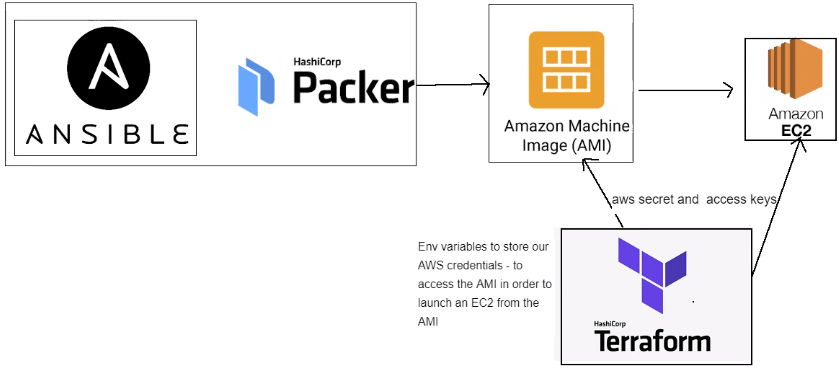
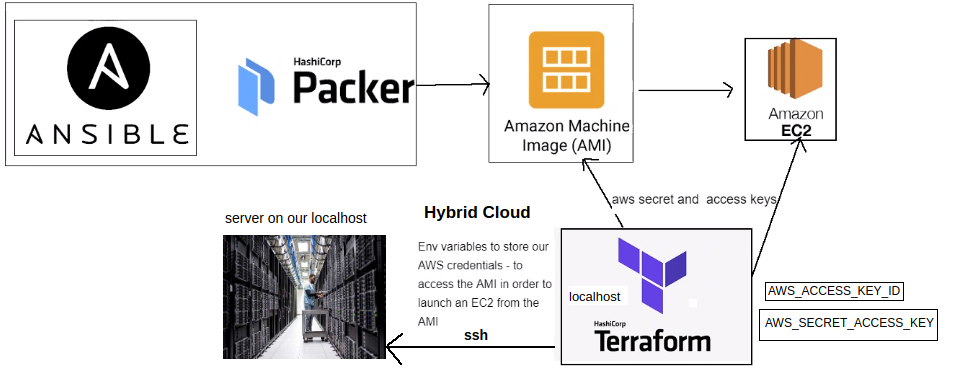
public, private and hybrid cloud.

diff --git a/README.md b/README.md
@@ -1,6 +1,6 @@
 # TERRAFORM
 
-![ANSIBLE_1](./terraform_scheme.png)
+![SCHEME](./terraform_scheme.png)
 
 Imagines that we are going to use to create our instances with terraform:
 
@@ -9,7 +9,7 @@ Imagines that we are going to use to create our instances with terraform:
 
 ## Terraform and benefits
 
-Is a __orhcestration__ tool. Is part of IAC, specifically dealing with orchestration of infrastructure in the cloud. We need orchestration tools and scripts that talk to the cloud to pull them together into the architecture, so Terraform will do this work for us.
+Is a __orchestration__ tool. Is part of IAC, specifically dealing with orchestration of infrastructure in the cloud. We need orchestration tools and scripts that talk to the cloud to pull them together into the architecture, so Terraform will do this work for us.
 
 Terraform is an open-source infrastructure as code software tool that enables you to safely and predictably create, change, and improve infrastructure. Terraform codifies cloud APIs into declarative configuration files.
 
@@ -29,6 +29,10 @@ Because Terraform uses a simple syntax, can provision infrastructure across mult
 
 5. Ease of use.
 
+6. Simplicity, it makes my life easier. It does a lot of work for us behind, in the background.
+
+7. Independent, so you can use it in any provider.
+
 __So can we do with it?__
 
 Terraform is a tool for building, changing, and versioning infrastructure safely and efficiently. Terraform can manage existing and popular service providers as well as custom in-house solutions. Configuration files describe to Terraform the components needed to run a single application or your entire datacenter.
@@ -37,11 +41,88 @@ Terraform applies to multi-cloud scenarios, where similar infrastructure is depl
 
 Automated infrastructure management, so terraform can create configuration file templates to define, provision, and configure ECS resources in a repeatable and predictable manner, reducing deployment and management errors resulting from human intervention.
 
+We can use terraform for private cloud, like vagrant, or for public cloud, like AWS, or make the combination of both of them and create a Hybrid Cloud.
+
 Basically, infrastrucute as code, you can use code to manage and maintain resources. It allows you to store the infrastructure status, so that you can track the changes in different components of the system (infrastructure as code) and share these configurations with others.
 
 __Difference between ansible and terraform__
 
 Although ansible can be used both, for configuration management and for orchestration, with terraform we can see the ease of use with a simple language to interpret, that in so few lines of code and with the image of the machine, we can create a new instance in AWS without having to specify many configurations.
+
+![DIFFERENCE](./terraform.png)
+
+__Safety__
+
+Terraform enables you to embed cloud security earlier and leverage automation and code to secure it. By scanning your Terraform modules earlier in the development lifecycle you can actually prevent misconfigurations from being deployed.
+
+All the methods of trying to connect in AWS, terraform check that (in your localhost, check that you have your variables prepared with their values), but AWS needs to verify also, every single request needs to be verified before deploying anything. It check that the key access matches with your account using the `.tf` file. So that's why it is security. Con lo cual podemos ver el gran beneficio de usar distinto provedores y con cada uno de ellos comprueba el accesso con la key. Nos ayuda hacer nuestra vida mas facil, al igual que al cliente, ahorramos tiempo y dinero.
+
+It does the same for any provider, only we have to change the configuration, the value of the tags.
+
+__AWS GovCloud (US) Regions__
+
+AWS GovCloud (US) gives government customers and their partners the flexibility to architect secure cloud solutions.
+
+AWS GovCloud (US-East) and (US-West) Regions are operated by employees who are U.S. citizens on U.S. soil. AWS GovCloud (US) is only accessible to U.S. entities and root account holders who pass a screening process. Customers must confirm that they will only use a U.S. person (green card holder or citizen as defined by the U.S. Department of State) to manage and access root account keys to these regions.
+
+Protect sensitive unclassified data files with server-side encryption in Amazon S3.
+
+Limit access to sensitive data by individual, time, and location and restrict which API calls users are able to make with identity federation, easy key rotation, and other powerful access control testing tools that are available.
+
+In AWS US, they have data centres we can't buy.
+Renting the services - pay as you go
+Created gov cloud - for government sector only.
+
+Five years ago, companies wanted to migrate to the cloud.
+Secret services were not willing to integrate due to security.
+
+Issues:
+- Premises goes on fire
+- Stealing data (hard drives)
+- Physical security only
+
+AWS created Gov cloud to solve these issues.
+
+### Private Cloud, Public Cloud and Hybrid Cloud
+
+It allows us to use terraform at any cloud level:
+
+![DIFFERENCE](./terraform_cloud.jpg)
+
+__Public Cloud__
+
+![PUBLIC](./terraform_public.png)
+
+- Clouds that are hosted and maintained by a cloud computing provider.
+- Use case: An image hosting website wants to host a collection of publicly accessible images. backup, disaster recovery, archiving, audit and security logs, etc. High-volume storage with low throughput/performance or infrequent access. Large volumes of storage with low-performance requirements, or infrequent access requirements are well-suited to the Public Cloud.
+- Scalability and no Capital cost.
+
+__Private Cloud__
+
+![PRIVATE](./terraform_private.png)
+
+- Clouds hosted and maintained by the user.
+- Use case: are used for applications for sensitive data, including financial institutions or goverments. Typically serves the needs of a single organization and is often purpose-built to fit a particular infrastructure and use case. It may be hosted on-premises or in a colocation data center. A government department wants to store sensitive information in a convenient to distribute format.
+- Secure, scaling, flexibility and customization.
+
+__Hybrid Cloud__
+
+![HYBRID](./terraform_scheme.png)
+
+- A combination of the above two types.
+- Use case: migrating workloads to and from the cloud, high Availability and Disaster Recovery, cloud as data center extension. The hybrid cloud is used when storage of sensitive data is required, however the services offered by cloud providers are also needed. A software development company wants to rapidly scale their business because of a spike in server load from active users and make sure that everything is stored safety.
+- Greater flexibility, manageable security, advantage of public cloud while doing heavy workloads and the information is secure as private cloud is incorporated within the same.
+
+Summary:
+
+![CLOUD](./public-private-hybrid-clouds.png)
+![FEATURES](./Cloud_Infrastructure.png)
+
+### IaC tools
+
+![TOOLS](./iac_tools.png)
+
+CI/CD Tools: Jenkins, CircleCI, TeamCity, Bamboo, GitLab.
 
 ## Terraform most used commands
 
